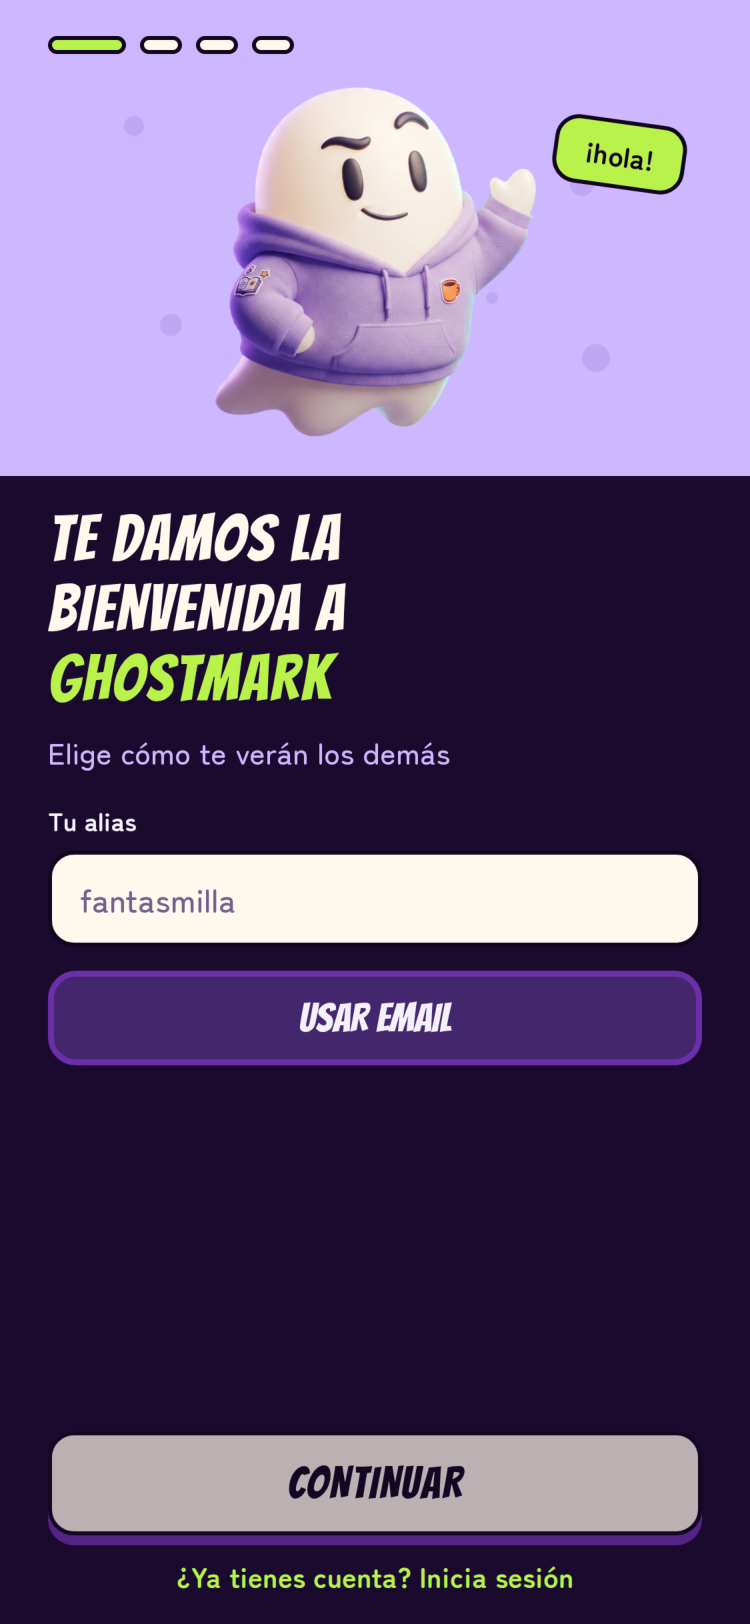
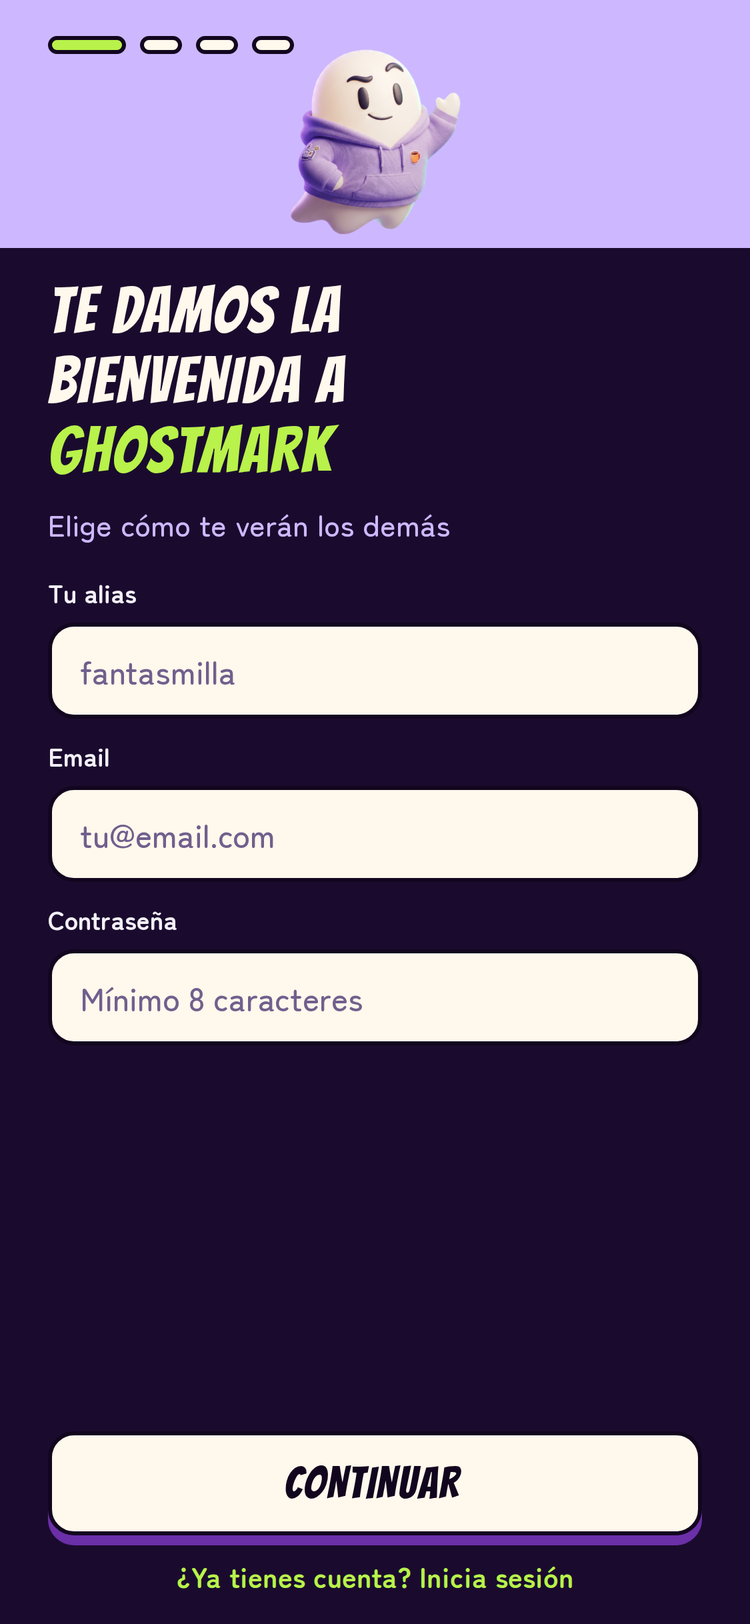
Tarea #100: abrir sin sesión en iniciar sesión (#114)

diff --git a/mobile/src/navigation/RootNavigator.tsx b/mobile/src/navigation/RootNavigator.tsx
@@ -39,7 +39,7 @@ const navigationTheme = {
 };
 
 export function RootNavigator() {
-  const [initialRoute, setInitialRoute] = useState<"Welcome" | "Home" | "LocationConsent" | "AvailabilityConsent">();
+  const [initialRoute, setInitialRoute] = useState<"SignIn" | "Home" | "LocationConsent" | "AvailabilityConsent">();
   const [error, setError] = useState(false);
   const [attempt, setAttempt] = useState(0);
   const invitations = useRef(createInvitationInbox());
@@ -73,7 +73,7 @@ export function RootNavigator() {
   useEffect(() => {
     setSessionExpiredHandler(() => {
       if (navigationRef.isReady()) {
-        navigationRef.reset({ index: 0, routes: [{ name: "Welcome" }] });
+        navigationRef.reset({ index: 0, routes: [{ name: "SignIn" }] });
         Alert.alert("Sesión caducada", "Vuelve a iniciar sesión para continuar.");
       }
     });
@@ -83,7 +83,7 @@ export function RootNavigator() {
   useEffect(() => {
     let active = true;
     restoreSession().then((restored) => {
-      if (active) setInitialRoute(restored ? nextAccountScreen() : "Welcome");
+      if (active) setInitialRoute(restored ? nextAccountScreen() : "SignIn");
     }).catch(() => { if (active) setError(true); });
     return () => { active = false; };
   }, [attempt]);

diff --git a/mobile/src/screens/ProfileScreen.tsx b/mobile/src/screens/ProfileScreen.tsx
@@ -53,7 +53,7 @@ export function ProfileScreen({ navigation }: Props) {
     try {
       await deleteAccount();
       await clearSession();
-      navigation.reset({ index: 0, routes: [{ name: "Welcome" }] });
+      navigation.reset({ index: 0, routes: [{ name: "SignIn" }] });
     } catch {
       setError("No hemos podido borrar la cuenta. Comprueba la conexión e inténtalo de nuevo.");
     } finally {
@@ -64,7 +64,7 @@ export function ProfileScreen({ navigation }: Props) {
   async function signOut() {
     try {
       await closeSession();
-      navigation.reset({ index: 0, routes: [{ name: "Welcome" }] });
+      navigation.reset({ index: 0, routes: [{ name: "SignIn" }] });
     } catch {
       setError("No hemos podido cerrar la sesión. Comprueba la conexión e inténtalo de nuevo.");
     }

diff --git a/mobile/src/screens/WelcomeScreen.tsx b/mobile/src/screens/WelcomeScreen.tsx
@@ -87,7 +87,7 @@ export function WelcomeScreen({ navigation }: Props) {
         </ScrollView>
         <View style={styles.footer}>
           <PrimaryButton disabled={isSubmitting} onPress={register}>{isSubmitting ? "CREANDO CUENTA…" : "CONTINUAR"}</PrimaryButton>
-          <Pressable accessibilityRole="link" onPress={() => navigation.navigate("SignIn")}><Text style={styles.loginLink}>¿Ya tienes cuenta? Inicia sesión</Text></Pressable>
+          <Pressable accessibilityRole="link" onPress={() => navigation.popTo("SignIn")}><Text style={styles.loginLink}>¿Ya tienes cuenta? Inicia sesión</Text></Pressable>
         </View>
       </KeyboardAvoidingView>
     </Screen>

diff --git a/mobile/src/screens/SignInScreen.tsx b/mobile/src/screens/SignInScreen.tsx
@@ -78,7 +78,7 @@ export function SignInScreen({ navigation }: Props) {
         </ScrollView>
         <View style={styles.footer}>
           <PrimaryButton disabled={isSubmitting} onPress={signIn}>{isSubmitting ? "ENTRANDO…" : "INICIAR SESIÓN"}</PrimaryButton>
-          <Pressable accessibilityRole="link" onPress={() => navigation.goBack()}><Text style={styles.registerLink}>¿No tienes cuenta? Crear cuenta</Text></Pressable>
+          <Pressable accessibilityRole="link" onPress={() => navigation.navigate("Welcome")}><Text style={styles.registerLink}>¿No tienes cuenta? Crear cuenta</Text></Pressable>
         </View>
       </KeyboardAvoidingView>
     </Screen>

diff --git a/docs/manual-usuario/README.md b/docs/manual-usuario/README.md
@@ -6,9 +6,10 @@ Se escribe a medida que se terminan PBI: cada *pull request* que cambia lo que v
 
 ### 1.1 Crear la cuenta
 
-1. En «Te damos la bienvenida a GhostMark», escribe tu alias: de 3 a 20 caracteres, con letras sin tildes, números y guion bajo. Nadie más puede tener el mismo alias, aunque cambien las mayúsculas.
-2. Escribe tu email y una contraseña de al menos 8 caracteres. El email solo sirve para iniciar sesión.
-3. Pulsa «Continuar». Si el alias o el email ya están en uso, o algún dato no es válido, la app te dice cuál y no crea la cuenta.
+1. Abre GhostMark. Sale «Iniciar sesión»; pulsa «¿No tienes cuenta? Crear cuenta».
+2. En «Te damos la bienvenida a GhostMark», escribe tu alias: de 3 a 20 caracteres, con letras sin tildes, números y guion bajo. Nadie más puede tener el mismo alias, aunque cambien las mayúsculas.
+3. Escribe tu email y una contraseña de al menos 8 caracteres. El email solo sirve para iniciar sesión.
+4. Pulsa «Continuar». Si el alias o el email ya están en uso, o algún dato no es válido, la app te dice cuál y no crea la cuenta.
 
 <img src="img/f1-a1-bienvenida.png" alt="Pantalla de bienvenida" width="250">
 
@@ -35,8 +36,8 @@ Se piden una sola vez, al crear la cuenta. Si cierras la app antes de aceptarlos
 
 ### 1.4 Iniciar sesión
 
-1. En la pantalla de bienvenida, pulsa «¿Ya tienes cuenta? Inicia sesión».
-2. Escribe tu email y tu contraseña y pulsa «Iniciar sesión». Si alguno no es correcto, la app muestra «Email o contraseña incorrectos» y no entra.
+1. Al abrir GhostMark, escribe tu email y tu contraseña en «Iniciar sesión».
+2. Pulsa «Iniciar sesión». Si alguno no es correcto, la app muestra «Email o contraseña incorrectos» y no entra.
 
 La sesión sigue abierta en el móvil mientras uses la app al menos una vez cada 30 días. Para cerrarla, entra en Perfil y pulsa «Cerrar sesión».
 
